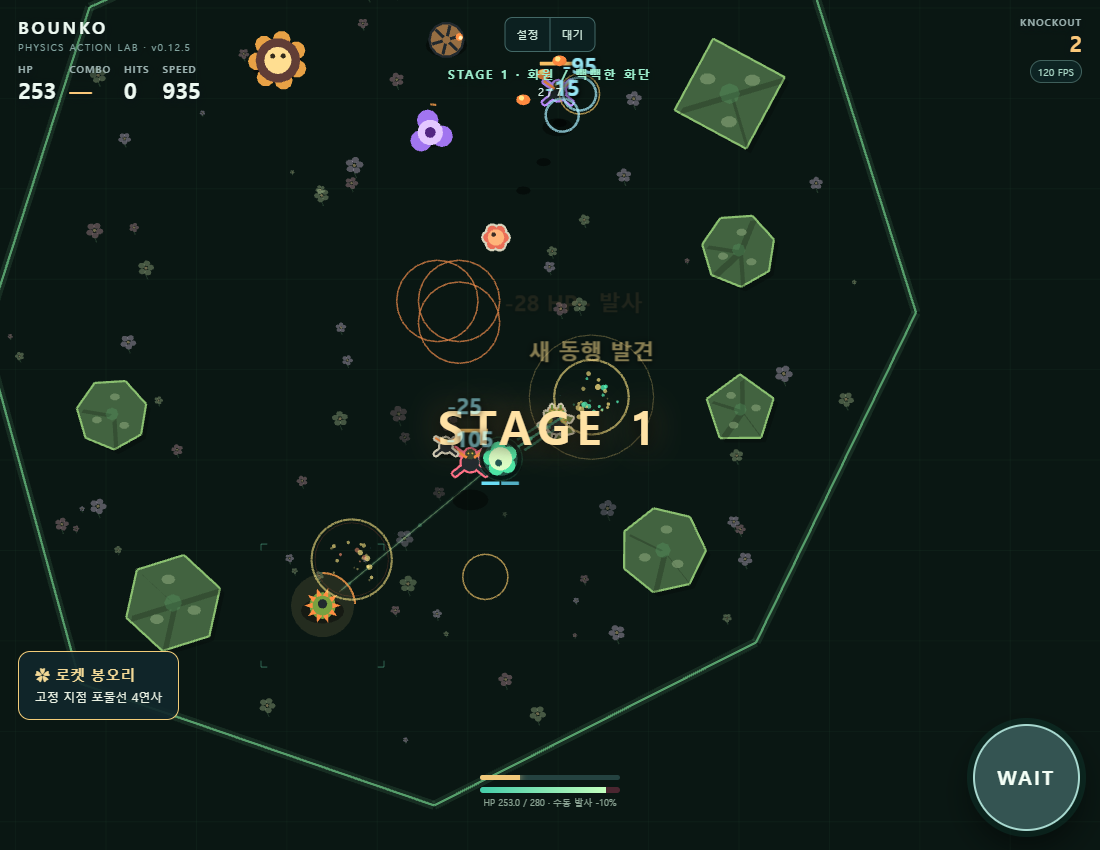
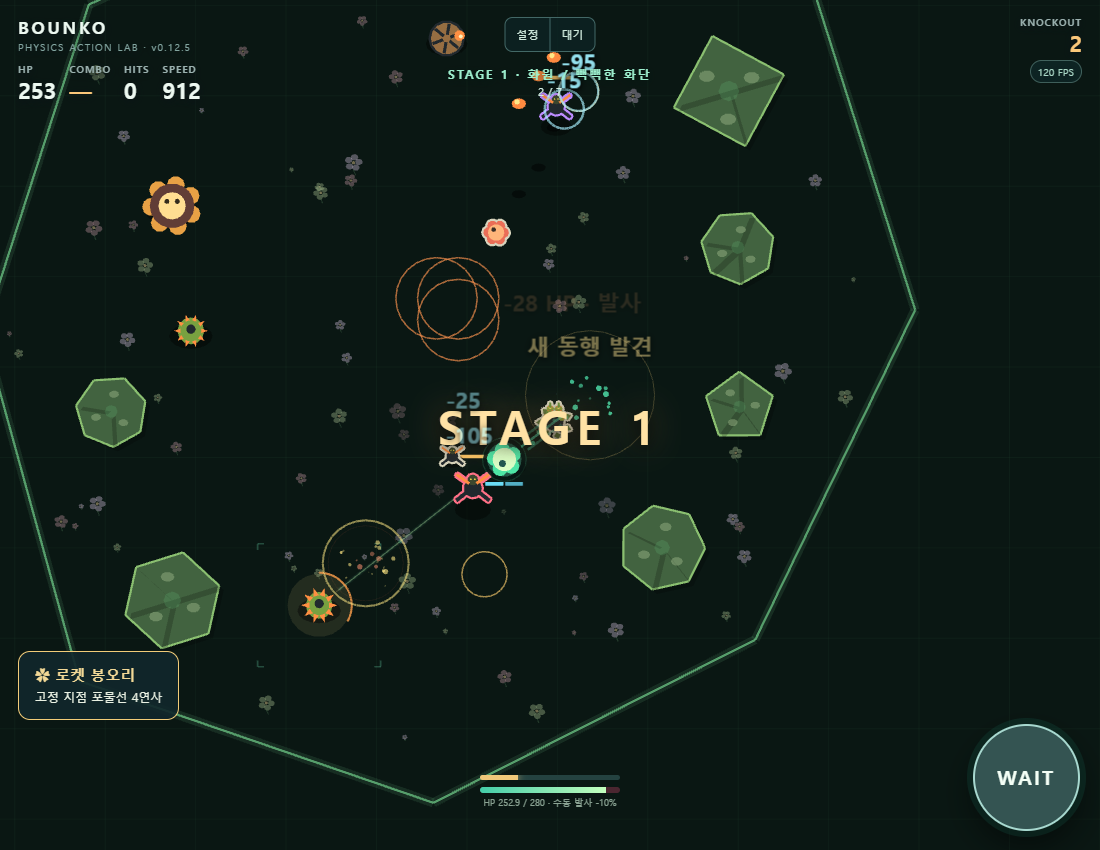
fix: refresh discovered wiki and avoid unoutlined replay

diff --git a/enemies.js b/enemies.js
@@ -156,14 +156,16 @@ const rgb=h=>[1,3,5].map(i=>parseInt(h.slice(i,i+2),16)/255);
 // Replay one species' authored geometry: opaque primitives form the silhouette.
 // The injected outline decorates any Presentation without knowing its faction.
 export function drawSpecies(r,pres,view){
+  if(!pres.outline&&pres.color===species[view.unit.speciesId].color){pres.draw(r,view);return;}
   const methods={ellipse:{color:4,points:[0,1]},rect:{color:4,points:[0,1]},
     triangle:{color:6,points:[0,1,2,3,4,5]},line:{color:5,points:[0,1,2,3]}};
-  const tint=rgb(pres.color),original=rgb(species[view.unit.speciesId].color),commands=[];
+  const tint=rgb(pres.color),original=rgb(species[view.unit.speciesId].color),commands=pres.outline?[]:null;
   const paint=Object.fromEntries(Object.entries(methods).map(([name,shape])=>[name,(...args)=>{
     const color=args[shape.color];args[shape.color]=color.map((v,i)=>i<3?Math.min(1,v*tint[i]/Math.max(.05,original[i])):v);
-    commands.push({name,shape,args});
+    if(commands)commands.push({name,shape,args});else r[name](...args);
   }]));
   pres.draw(paint,view);
+  if(!commands)return;
   if(pres.outline){const passes=[pres.outline],contrast=pres.outline.contrast,edgeColor=rgb(pres.outline.color);
     if(contrast&&Math.hypot(...tint.map((v,i)=>v-edgeColor[i]))<contrast.maxColorDistance)passes.push(contrast);
     for(const pass of passes){const color=[...rgb(pass.color),1];

diff --git a/index.html b/index.html
@@ -3016,7 +3016,7 @@ try {
     $('guidePanel').classList.toggle('open',open);$('guidePanel').setAttribute('aria-hidden',String(!open));
     if(open){showGuideSlide(0);$('guideClose').focus();}else $('guideOpen').focus();
   }
-  function openWiki(open){if(open)refreshWikiStats();
+  function openWiki(open){if(open){refreshWikiStats();updateDiscoveredSpeciesWiki();}
     if(open&&phase!=='LOBBY')return;
     if(open)openGuide(false);
     $('wikiPanel').classList.toggle('open',open);$('wikiPanel').setAttribute('aria-hidden',String(!open));

diff --git a/README.md b/README.md
@@ -235,8 +235,10 @@ GitHub Pages의 게시 소스는 Settings → Pages → Build and deployment →
 
 ### 0.12.5 동행 크기·카드 슬롯 검증
 
-실제 Edge 155.0.4283.45에서 대표 카드 장착/해제/가득 참 안내, 알 부화 후 같은 ID·종·슬롯과 새로고침 유지, WASD·클릭·수동 잔상 및 펫 충돌을 **PASS 4.556초**, 별도 실제 GPU 비교를 **PASS 1.680초**에 확인했습니다. 실행 오류는 0건입니다. 모바일 터치에서 기본 1칸·잠긴 4칸, 장착/가득 참/해제와 가로 넘침 없음(패널 372px), 카드 터치 높이 140px도 확인했습니다. Common/Epic/Mythic의 같은 종 적 대비 65/86/100% 및 6등급 정규화 수치를 확인했습니다.
+실제 Edge 155.0.4283.45에서 대표 카드 장착/해제/가득 참 안내, 알 부화 후 같은 ID·종·슬롯과 새로고침 유지, WASD·클릭·수동 잔상 및 펫 충돌을 **PASS 6.543초**, 별도 실제 GPU 비교를 **PASS 2.619초**에 확인했습니다. 실행 오류는 0건입니다. 모바일 터치에서 기본 1칸·잠긴 4칸, 장착/가득 참/해제와 가로 넘침 없음(패널 372px), 카드 터치 높이 140px도 확인했습니다. Common/Epic/Mythic의 같은 종 적 대비 65/86/100% 및 6등급 정규화 수치를 확인했습니다.
 
 별도 실제 Matter/원본 factory·drawUnit 검사에서 Common 사마귀 반지름 13·높이 19.5·몸 그림자 13, 35px 분리 시 접촉 없음/30px 시 실제 접촉, Legendary 소환 새싹 반지름 13.02·높이 26.04·소유자 등급색을 확인했습니다. 반지름·높이를 제외한 대표 9개 종/등급 Config가 기존과 동일하고, 공통 능력·컨트롤러·오디오 모듈 및 11개 입력·비용·스테이지 함수 본문이 그대로입니다. 전체 종×등급 게임 매트릭스, 실제 소환 시퀀스, 모바일 전투·장기 밸런스·최대 인구 성능은 미검증입니다. 실루엣 재생은 그리기 도형 수를 늘리므로 최대 인구 성능은 별도 한계로 기록했습니다.
 
 [수치·검증 근거](docs/verification-companion-ux-2026-10-10.json) · [같은 종 크기·등급 외곽선](docs/companion-size-outline-slate.png) · [데스크톱 카드](docs/companion-cards-desktop.png) · [모바일 카드](docs/companion-cards-mobile.png) · [실제 전투](docs/companion-size-native-game.png)
+
+PR 검토 후 발견 위키를 열 때 저장된 발견종 표를 갱신하도록 복원했습니다. 새 부화 없이 로비에서 열기·새로고침 후 2종 표시와 외곽선 없는 동일 팔레트 Presentation의 직접 그리기 경로를 실제 Edge에서 **PASS 8.861초**로 확인했습니다. 외곽선이 없는 기본 팔레트는 원래 renderer를 직접 사용하여 command/args 재생 목록을 만들지 않습니다. 수정 후 최종 대표 검증 합계는 **18.023초**입니다.
